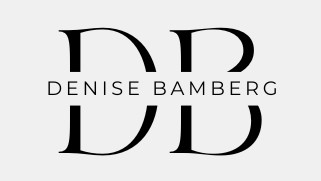
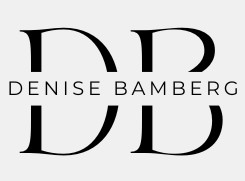
finished the navbar component & added+finished the Main component

diff --git a/components/navbar.jsx b/components/navbar.jsx
@@ -1,16 +1,24 @@
 import Image from "next/image";
 import Link from "next/link";
-import React from "react";
-import { AiOutlineClose, AiOutlineMenu } from "react-icons/ai";
+import React, { useState } from "react";
+import { AiOutlineClose, AiOutlineMail, AiOutlineMenu } from "react-icons/ai";
+import { FaGithub, FaLinkedinIn } from "react-icons/fa";
+import { BsFillPersonLinesFill } from "react-icons/bs";
 
 export default function Navbar() {
+    const [nav, setNav] = useState(false);
+
+    const handleNav = () => {
+        setNav(!nav);
+    };
+
     return (
         <div className="fixed w-full h-20 shadow-xl z-[100]">
             <div className="flex justify-between items-center w-full h-full px-2 2xl:px-16">
                 <Image
                     src="/../public/assets/db.jpg"
                     alt="/"
-                    width="125"
+                    width="100"
                     height="50"
                     priority
                 />
@@ -42,23 +50,82 @@ export default function Navbar() {
                             </li>
                         </Link>
                     </ul>
-                    <div className="md:hidden ">
+                    <div onClick={handleNav} className="md:hidden ">
                         <AiOutlineMenu size={25} />
                     </div>
                 </div>
             </div>
-            <div className="fixed left-0 top-0 w-full h-screen bg-black/70">
-                <div className="fixed left-0 top-0 w-[75%] sm:w-[60%] md:w-[45%] h-screen bg-[#ecf0f3] p-10 ease-in duration-500">
+
+            <div
+                className={
+                    nav
+                        ? "md:hidden fixed left-0 top-0 w-full h-screen bg-black/70"
+                        : ""
+                }
+            >
+                <div
+                    className={
+                        nav
+                            ? " fixed left-0 top-0 w-[75%] sm:w-[60%] md:w-[45%] h-screen bg-[#ecf0f3] p-10 ease-in duration-500"
+                            : "fixed left-[-100%] top-0 p-10 ease-in duration-500"
+                    }
+                >
                     <div>
                         <div className="flex w-full items-center justify-between">
                             <Image
                                 src="/../public/assets/db.jpg"
-                                width="87"
+                                width="70"
                                 height="35"
                                 alt="/"
                             />
-                            <div className="rounded-full shadow-lg shadow-gray-400 p-3 cursor-pointer">
+                            <div
+                                onClick={handleNav}
+                                className="rounded-full shadow-lg shadow-gray-400 p-3 cursor-pointer"
+                            >
                                 <AiOutlineClose />
+                            </div>
+                        </div>
+                        <div className="border-b border-gray-300 my-4">
+                            <p className="w-[85%] md:w-[90%] py-4">
+                                Let&#39;s build something great together
+                            </p>
+                        </div>
+                    </div>
+                    <div className="py-4 flex flex-col">
+                        <ul className="uppercase">
+                            <Link href="/">
+                                <li className="py-4 text-sm">Home</li>
+                            </Link>
+                            <Link href="/">
+                                <li className="py-4 text-sm">About</li>
+                            </Link>
+                            <Link href="/">
+                                <li className="py-4 text-sm">Skills</li>
+                            </Link>
+                            <Link href="/">
+                                <li className="py-4 text-sm">Projects</li>
+                            </Link>
+                            <Link href="/">
+                                <li className="py-4 text-sm">Contact</li>
+                            </Link>
+                        </ul>
+                        <div className="pt-40">
+                            <p className="uppercase tracking-widest text-teal-500">
+                                Let&#39;s connect
+                            </p>
+                            <div className="flex items-center justify-between my-4 w-full sm:w-[80%]">
+                                <div className="rounded-full shadow-lg shadow-gray-400 p-3 cursor-pointer hover:scale-105 ease-in duration-300">
+                                    <FaLinkedinIn />
+                                </div>
+                                <div className="rounded-full shadow-lg shadow-gray-400 p-3 cursor-pointer hover:scale-105 ease-in duration-300">
+                                    <FaGithub />
+                                </div>
+                                <div className="rounded-full shadow-lg shadow-gray-400 p-3 cursor-pointer hover:scale-105 ease-in duration-300">
+                                    <AiOutlineMail />
+                                </div>
+                                <div className="rounded-full shadow-lg shadow-gray-400 p-3 cursor-pointer hover:scale-105 ease-in duration-300">
+                                    <BsFillPersonLinesFill />
+                                </div>
                             </div>
                         </div>
                     </div>

diff --git a/components/Main.jsx b/components/Main.jsx
@@ -1,0 +1,47 @@
+import React from "react";
+import { AiOutlineMail } from "react-icons/ai";
+import { BsFillPersonLinesFill } from "react-icons/bs";
+import { FaGithub, FaLinkedinIn } from "react-icons/fa";
+
+export default function Main() {
+    return (
+        <div className="w-full h-screen text-center">
+            <div className="max-w-[1240px] w-full h-full mx-auto p-2 flex justify-center items-center">
+                <div>
+                    <p className="uppercase text-sm tracking-widest text-gray-600">
+                        LET&#39;S BUILD SOMETHING TOGETHER
+                    </p>
+                    <h1 className="py-4 text-gray-700">
+                        Hi, I&#39;m{" "}
+                        <span className="text-teal-500">Denise</span>
+                    </h1>
+                    <h1 className="py-2 text-gray-700">
+                        A Junior Full Stack Developer
+                    </h1>
+                    <p className="py-4 text-gray-600 max-w-[70%] m-auto">
+                        I recently graduated from Spiced Academy, as a Fullstack
+                        Developer. In several projects (Petition, Imageboard,
+                        Social Network) we prove, what we&#39;ve learned so far.
+                        Now I want to show the world my new skills, sharpen and
+                        improve the ones I have, learn new ones and contribute
+                        to the companies.
+                    </p>
+                    <div className="flex items-center justify-between max-w-[330px] m-auto py-4">
+                        <div className="rounded-full shadow-lg shadow-gray-400 p-6 cursor-pointer hover:scale-110 ease-in duration-300">
+                            <FaLinkedinIn />
+                        </div>
+                        <div className="rounded-full shadow-lg shadow-gray-400 p-6 cursor-pointer hover:scale-110 ease-in duration-300">
+                            <FaGithub />
+                        </div>
+                        <div className="rounded-full shadow-lg shadow-gray-400 p-6 cursor-pointer hover:scale-110 ease-in duration-300">
+                            <AiOutlineMail />
+                        </div>
+                        <div className="rounded-full shadow-lg shadow-gray-400 p-6 cursor-pointer hover:scale-110 ease-in duration-300">
+                            <BsFillPersonLinesFill />
+                        </div>
+                    </div>
+                </div>
+            </div>
+        </div>
+    );
+}

diff --git a/pages/index.js b/pages/index.js
@@ -1,6 +1,7 @@
 import Head from "next/head";
 import React from "react";
 import Navbar from "../components/Navbar";
+import Main from "../components/Main";
 
 export default function Home() {
     return (
@@ -14,6 +15,7 @@ export default function Home() {
                 <link rel="icon" href="/favicon.ico" />
             </Head>
             <Navbar />
+            <Main />
         </div>
     );
 }
